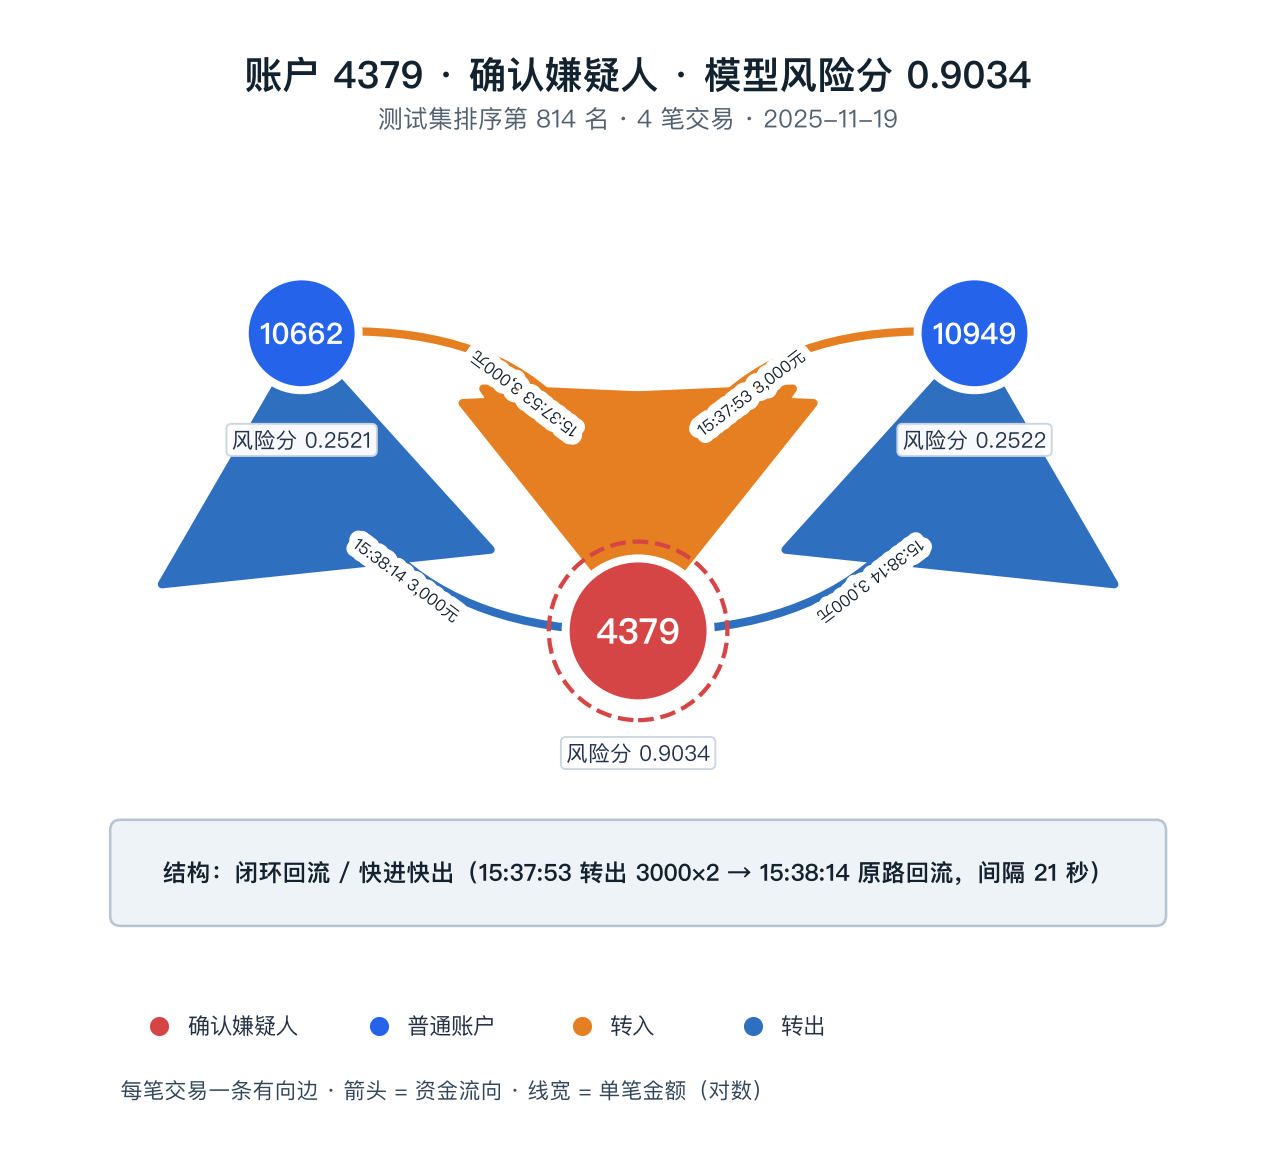
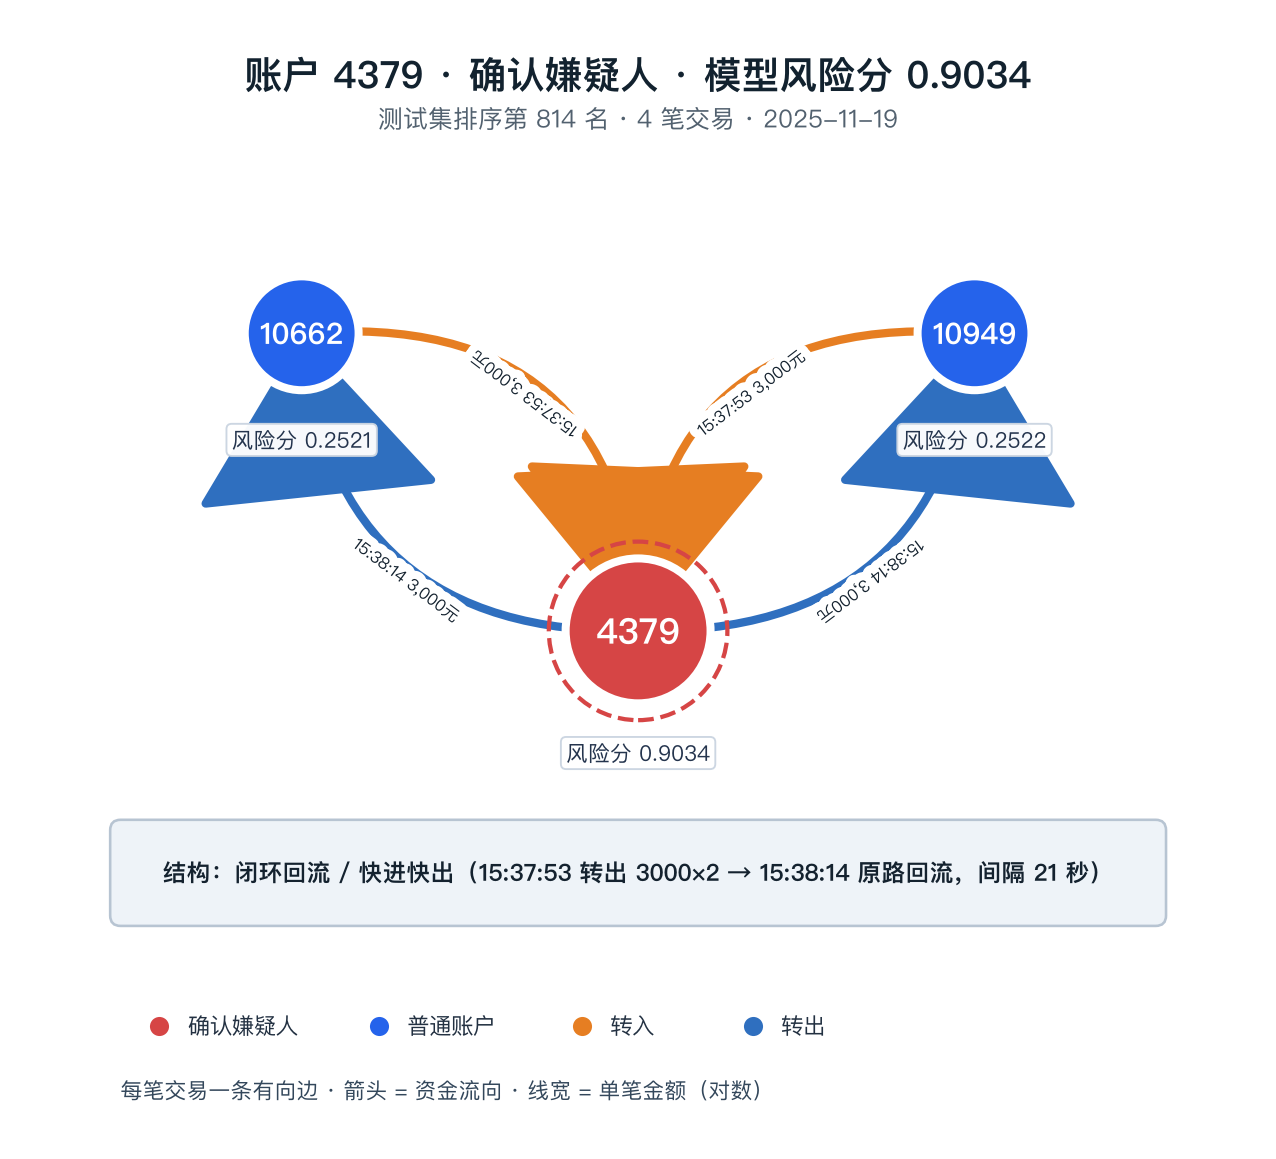
附录D图谱箭头再缩小并限制md图片宽度

Changed region(s): [[0.3668, 0.3106, 0.6418, 0.4349], [0.6113, 0.4038, 0.8864, 0.528], [0.1223, 0.4038, 0.3973, 0.528]]

diff --git a/src/27_render_appendix_d_graphs.py b/src/27_render_appendix_d_graphs.py
@@ -112,8 +112,8 @@ def draw_edges(ax, fig, pos, edges: list[dict], root: int, label_fn, fontsize: f
         ru = 0.66 if u == root else 0.54
         rv = 0.66 if v == root else 0.54
         arrow = FancyArrowPatch(p1, p2, connectionstyle=f"arc3,rad={rad}",
-                                arrowstyle="-|>,head_width=3.5,head_length=4.8",
-                                mutation_scale=20, lw=width,
+                                arrowstyle="-|>,head_width=3.0,head_length=4.0",
+                                mutation_scale=16, lw=width,
                                 color=color, shrinkA=ru, shrinkB=rv, zorder=5)
         ax.add_patch(arrow)
         txt = label_fn(e, incoming)

diff --git a/docs/附录D_资金图谱可视化与缺边审计.md b/docs/附录D_资金图谱可视化与缺边审计.md
@@ -4,25 +4,25 @@
 
 ## 图 D-1 账户 4379（确认嫌疑人）资金链路子图：闭环回流结构
 
-![图 D-1 账户 4379 闭环回流](./images/appendix_d_4379_loop.png)
+<img src="./images/appendix_d_4379_loop.png" alt="图 D-1 账户 4379 闭环回流" width="760" />
 
 **说明：** 账户 4379 模型风险分 0.9034，测试集排序第 814 名，标签为确认嫌疑人。2025-11-19 15:37:53 向 10662、10949 各转出 3000 元，15:38:14 两笔资金原路回流，间隔仅 21 秒。红色节点为确认嫌疑人，蓝色节点为普通账户，箭头表示资金方向，边宽按金额对数缩放。识别结构类型：**闭环回流/快进快出（快速分散与归集模体）**。
 
 ## 图 D-2 账户 1740（确认嫌疑人）资金链路子图：分散入账/星状汇聚
 
-![图 D-2 账户 1740 星状汇聚](./images/appendix_d_1740_star.png)
+<img src="./images/appendix_d_1740_star.png" alt="图 D-2 账户 1740 星状汇聚" width="760" />
 
 **说明：** 账户 1740 模型风险分 0.7460，测试集排序第 2827 名。3863、7838 两个固定对手在 2025-07、2025-11、2025-12 三期分别向 1740 转入约 3084.40-3166.04 元，共 6 笔、合计 18828.88 元，呈稳定星状汇聚结构，符合资金池沉淀特征。
 
 ## 图 D-3 账户 7265（确认嫌疑人）资金链路子图：小额分散转出
 
-![图 D-3 账户 7265 星状试探](./images/appendix_d_7265_star.png)
+<img src="./images/appendix_d_7265_star.png" alt="图 D-3 账户 7265 星状试探" width="760" />
 
 **说明：** 账户 7265 模型风险分 0.5801，测试集排序第 4906 名。账户向 1137、7238 两个固定对手重复转出 188.10-564.30 元，共 6 笔、合计 2633.40 元，呈小额星状试探结构，符合养号/鉴权测试阶段的低金额分散特征。
 
 ## 图 D-4 Top30 高风险巡检账户 9928 关联网络拓扑：双向闭环回流
 
-![图 D-4 Top30 账户 9928 双向回流](./images/appendix_d_9928_flow.png)
+<img src="./images/appendix_d_9928_flow.png" alt="图 D-4 Top30 账户 9928 双向回流" width="760" />
 
 **说明：** 账户 9928 模型风险分 0.9797，进入 Top30 高风险巡检队列，标签为其它。3842、5584 与其在 2025-07、2025-08 反复互转，7/1 各入 4.5 万元、7/30 各入 30 万元、8/5 各出 60 万元、8/6 各出 30 万元；转入合计 690000 元、转出合计 1800000 元，转出规模显著放大，呈双向闭环回流/资金归集结构，属于值得人工复核的高风险关联网络。
 
